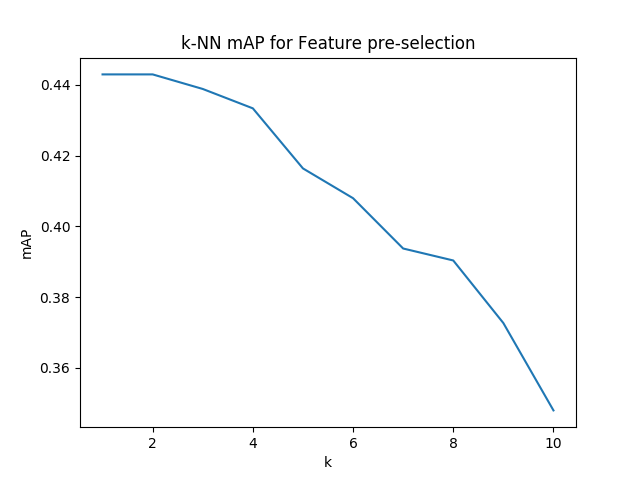
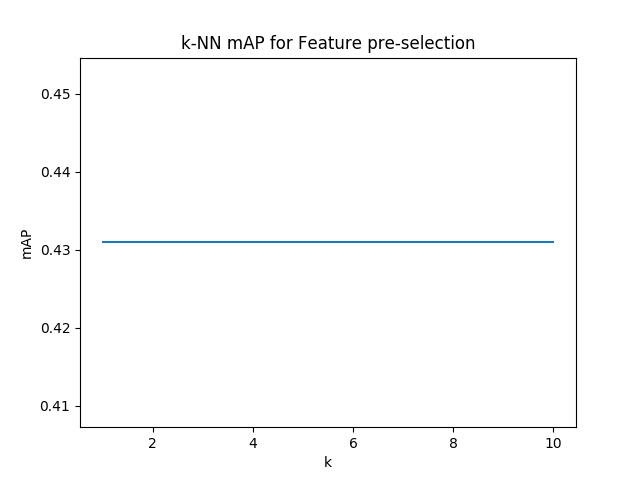
[CW2] Discovered interesting metric learning library

diff --git a/Coursework 2/kNN_improved_feature_preselection.py b/Coursework 2/kNN_improved_feature_preselection.py
@@ -9,17 +9,16 @@ from sklearn import neighbors
 import matplotlib.pyplot as plt
 
 # Import post process analysing methods
-from sklearn.feature_selection import VarianceThreshold
 from learn_distance_metric import find_matrices
 from sklearn.preprocessing import normalize
 
-
-from lda import *
+import metric_learn
 
 from tqdm import tqdm
 
 from collections import Counter
 
+"""
 def metric(x,y, **kwargs):
     U = kwargs["metric_params"]["U"]
     A = kwargs["metric_params"]["A"]
@@ -27,7 +26,7 @@ def metric(x,y, **kwargs):
     s2 = np.matmul(x-y,A)
     s3 = np.matul(np.matmul(s1.T,A),s_2)
     return np.sqrt(s3)
-
+"""
 def weight(x, sigma=0.1):
     return np.exp(-(x** 2) / 2*(sigma**2))
 
@@ -97,11 +96,25 @@ def analyse_KNN_feature_preselection(k=10):
 #    gallery_features = selector.transform(gallery_features)
 #    query_features = selector.transform(query_features)
 
-    #lda_W = LDA(training_features.T, training_labels)
+    #lda_W = LDA(training_features.T, training_labels)[:,:200]
 
     #training_features = LDA_transform(lda_W,training_features.T)
     #gallery_features = LDA_transform(lda_W,gallery_features.T)
     #query_features = LDA_transform(lda_W,query_features.T)
+
+    # setting up LMNN
+    #lmnn = metric_learn.SDML_Supervised(verbose = True, num_constraints=200)
+
+    # fit the data!
+    #lmnn.fit(training_features, training_labels, random_state = np.random.RandomState(1234))
+
+    #M = lmnn.metric()
+
+    #A = np.linalg.cholesky(M)
+
+    # transform our input space
+    #gallery_features = np.matmul(gallery_features,A)
+    #query_features = np.matmul(query_features,A)
 
 
     for i in tqdm(range(len(query_features))):
